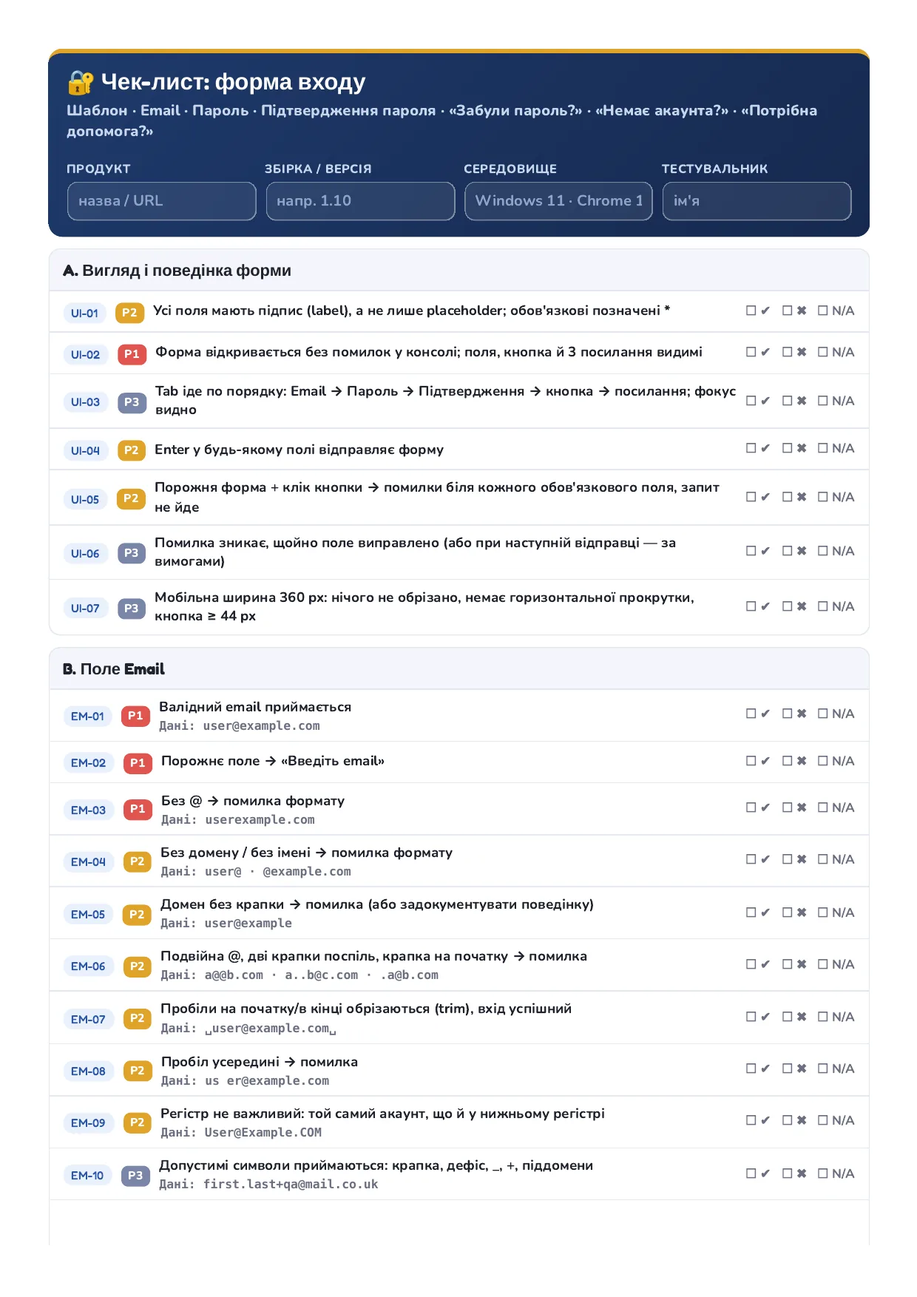
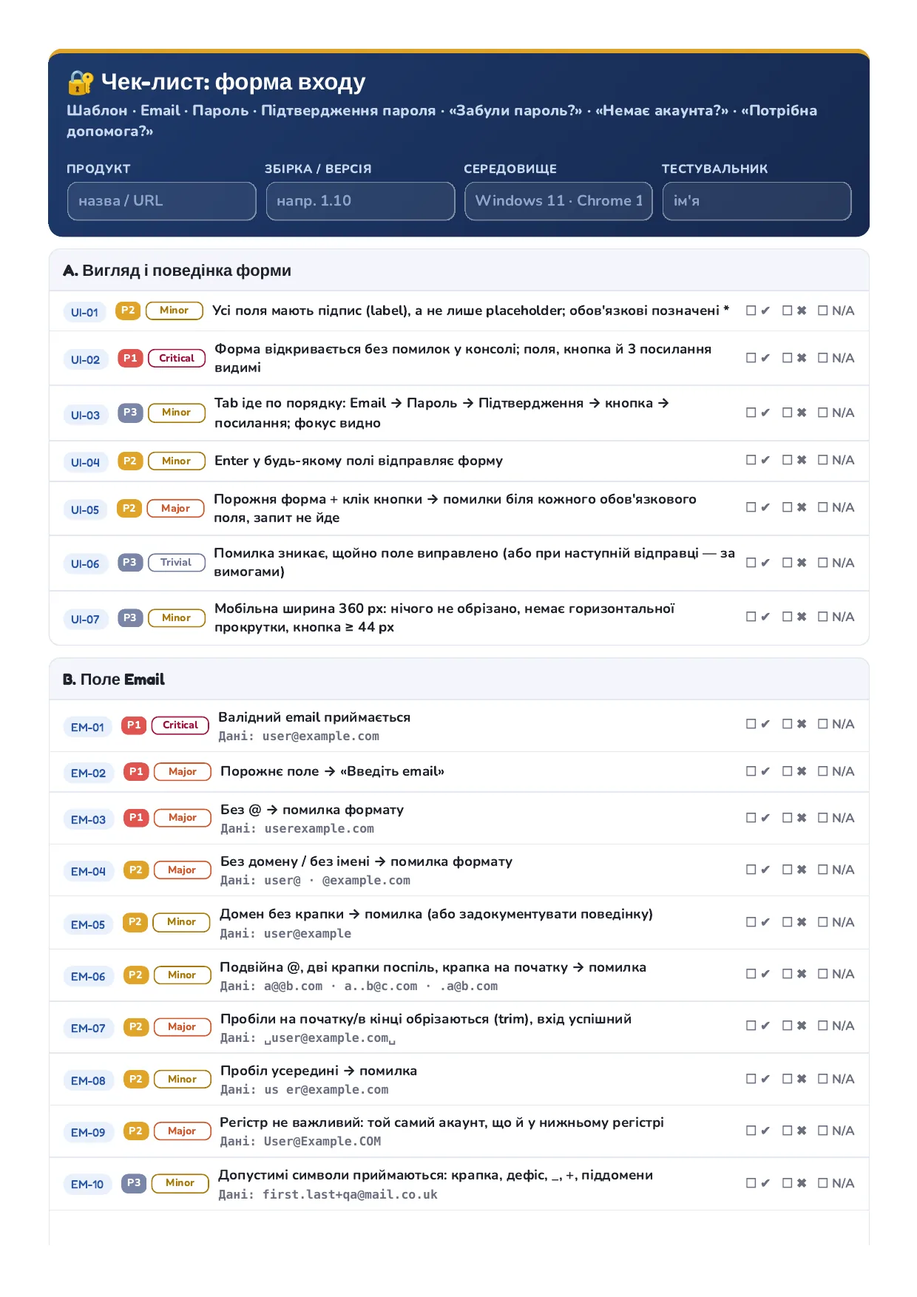
Checklist template: severity per check, collapse and expand all sections
Every check now shows its priority (P1-P3) and severity
(Critical/Major/Minor/Trivial). Both badges can be changed with a click;
changed values are saved, outlined, and used by the filters, summary,
report and print. Adds Collapse all / Expand all, keyboard-operable
section headers with aria-expanded, a failed-checks count in each section
header, a Critical-only filter, and a legend. The A4 page screenshots on
the site are regenerated.

Claude-Session: https://claude.ai/code/session_01QNh4zQBp7bNNuV439ysXSd

diff --git a/docs/templates/login-form-checklist.html b/docs/templates/login-form-checklist.html
@@ -11,7 +11,7 @@
 :root{
   --ink:#20232e;--soft:#6b6f80;--paper:#f4f6fb;--card:#fff;--line:#e4e8f0;
   --blue:#3b6fd4;--blue-d:#2b56a8;--good:#2fa96a;--good-bg:#e5f7ee;--bad:#e0554f;--bad-bg:#fceceb;
-  --na:#8a90a6;--na-bg:#eef0f5;--amber:#e0a42a;--p1:#e0554f;--p2:#e0a42a;--p3:#7a86a8;
+  --na:#8a90a6;--na-bg:#eef0f5;--s1:#a3123a;--s2:#d0562a;--s3:#a8780c;--s4:#6f7a99;--amber:#e0a42a;--p1:#e0554f;--p2:#e0a42a;--p3:#7a86a8;
 }
 *{box-sizing:border-box;-webkit-tap-highlight-color:transparent}
 html,body{margin:0;padding:0}
@@ -75,7 +75,18 @@ h1,h2,h3{font-family:'Fredoka',sans-serif;font-weight:700;margin:0}
 .row.na{background:var(--na-bg)}.row.na .rtext{color:var(--na);text-decoration:line-through}
 .rid{font-family:'Fredoka';font-size:12px;color:var(--blue-d);background:#eaf1fc;border-radius:8px;padding:3px 7px;flex:none;margin-top:2px}
 .prio{font-size:10px;font-weight:800;color:#fff;border-radius:6px;padding:2px 6px;flex:none;margin-top:3px}
+.legend{display:flex;flex-wrap:wrap;gap:6px 14px;justify-content:center;margin:6px 0}
+.legend span{display:inline-flex;align-items:center;gap:5px}
+.legend .prio,.legend .sev{margin:0;font-size:10px;border-radius:6px;padding:1px 6px}
 .prio.P1{background:var(--p1)}.prio.P2{background:var(--p2)}.prio.P3{background:var(--p3)}
+.tags{display:flex;flex-direction:column;align-items:stretch;gap:4px;flex:none;margin-top:2px;width:62px}
+.tags button{font:800 10px 'Nunito',sans-serif;border-radius:6px;padding:2px 5px;cursor:pointer;text-align:center;line-height:1.35}
+.tags .prio{margin:0;border:1px solid transparent}
+.sev{background:#fff;border:1.5px solid currentColor}
+.sev.Critical{color:var(--s1)}.sev.Major{color:var(--s2)}.sev.Minor{color:var(--s3)}.sev.Trivial{color:var(--s4)}
+.tags button.edited{box-shadow:0 0 0 2px #fff,0 0 0 3.5px var(--blue)}
+.tags button:focus-visible,.shead:focus-visible{outline:3px solid var(--blue);outline-offset:2px}
+.sfail{font-family:'Fredoka';font-size:12px;color:#fff;background:var(--bad);border-radius:20px;padding:2px 9px}
 .rbody{flex:1;min-width:0}
 .rtext{font-weight:700;font-size:14.5px;line-height:1.35}
 .rdata{margin-top:4px;font:600 12.5px ui-monospace,SFMono-Regular,Consolas,monospace;color:var(--soft);word-break:break-word}
@@ -118,7 +129,7 @@ h1,h2,h3{font-family:'Fredoka',sans-serif;font-weight:700;margin:0}
   html,body{background:#fff}
   body{padding:0;display:block;font-size:12px}
   .wrap{max-width:none}
-  .head,.row.pass,.row.fail,.row.na,.prio,.rid{-webkit-print-color-adjust:exact;print-color-adjust:exact}
+  .head,.row.pass,.row.fail,.row.na,.prio,.sev,.rid{-webkit-print-color-adjust:exact;print-color-adjust:exact}
   .head{box-shadow:none;border-radius:12px;padding:14px 16px}
   .head h1{font-size:20px}
   .meta input{border-color:rgba(255,255,255,.4)}
@@ -131,11 +142,13 @@ h1,h2,h3{font-family:'Fredoka',sans-serif;font-weight:700;margin:0}
   .rtext{font-size:12px;font-weight:700}
   .rdata{font-size:10.5px;margin-top:2px}
   .rid{font-size:10px}
+  .tags{flex-direction:row;width:auto;margin-top:0}.tags button{font-size:9px;padding:1px 4px}.tags .prio{min-width:22px}.tags .sev{min-width:50px}.tags button.edited{box-shadow:none}
+  .sfail{display:none}
   .row::after{content:"☐ ✔   ☐ ✖   ☐ N/A";white-space:pre;flex:none;font:700 11px 'Nunito',sans-serif;color:#6b6f80}
   .shots img{width:120px;height:auto}
   .shot button{display:none}
 }
-@media(max-width:520px){.rid{display:none}.head h1{font-size:20px}.row{flex-wrap:wrap}.rbody{flex-basis:calc(100% - 40px)}.acts{width:100%;justify-content:flex-end}.mark{width:40px;height:40px}}
+@media(max-width:520px){.rid{display:none}.head h1{font-size:20px}.row{flex-wrap:wrap}.rbody{flex-basis:calc(100% - 40px)}.acts{width:100%;justify-content:flex-end}.mark{width:40px;height:40px}.tags{flex-direction:row;width:auto;flex-basis:100%}.tags button{min-width:58px}}
 </style>
 </head>
 <body>
@@ -168,11 +181,13 @@ h1,h2,h3{font-family:'Fredoka',sans-serif;font-weight:700;margin:0}
       <button data-f="fail" onclick="setFilter('fail')">Впали</button>
       <button data-f="pass" onclick="setFilter('pass')">Пройдені</button>
       <button data-f="P1" onclick="setFilter('P1')">Лише P1</button>
+      <button data-f="Critical" onclick="setFilter('Critical')">Лише Critical</button>
     </div>
     <div class="spacer"></div>
     <button class="tbtn" onclick="copySummary()">📋 Підсумок</button>
     <button class="tbtn" onclick="exportReport()">⬇ Звіт</button>
-    <button class="tbtn" onclick="expandAll(true)">▾ Розгорнути</button>
+    <button class="tbtn" onclick="expandAll(true)" title="Розгорнути всі розділи">▾ Розгорнути все</button>
+    <button class="tbtn" onclick="expandAll(false)" title="Згорнути всі розділи">▸ Згорнути все</button>
     <button class="tbtn danger" onclick="resetAll()">↺ Скинути</button>
   </div>
 
@@ -181,7 +196,17 @@ h1,h2,h3{font-family:'Fredoka',sans-serif;font-weight:700;margin:0}
   <div class="foot">
     ✔ — пройдено · ✖ — впало · N/A — не стосується продукту · ✎ — нотатка / номер дефекту.<br>
     📷 — додати скрін: вибрати файл, перетягнути на рядок або клікнути рядок і натиснути Ctrl+V. «⬇ Звіт» — HTML-звіт з дефектами і скрінами.<br>
-    P1 — блокер · P2 — важливо · P3 — крайній випадок. Прогрес зберігається на цьому пристрої (localStorage).<br>
+    <div class="legend">
+      <b>Пріоритет</b> (як терміново перевірити / виправити):
+      <span><b class="prio P1">P1</b> перевіряти першим</span><span><b class="prio P2">P2</b> важливо</span><span><b class="prio P3">P3</b> крайній випадок</span>
+    </div>
+    <div class="legend">
+      <b>Серйозність</b> (наскільки зламано, якщо перевірка впала):
+      <span><b class="sev Critical">Critical</b> вхід неможливий / безпека</span><span><b class="sev Major">Major</b> основна функція працює неправильно</span>
+      <span><b class="sev Minor">Minor</b> є обхідний шлях</span><span><b class="sev Trivial">Trivial</b> косметика</span>
+    </div>
+    Клік по значку пріоритету чи серйозності змінює його під ваш продукт (змінені обведені синім). Клік по заголовку розділу (або Enter) згортає / розгортає його.<br>
+    Прогрес зберігається на цьому пристрої (localStorage).<br>
     Як адаптувати шаблон: змініть масив <code>DATA</code> у кінці файлу (мінімальна довжина пароля, тексти помилок, адреси сторінок).
   </div>
 </div>
@@ -190,119 +215,131 @@ h1,h2,h3{font-family:'Fredoka',sans-serif;font-weight:700;margin:0}
 <input type="file" id="shotInput" accept="image/*" multiple hidden>
 
 <script>
-/* ── ДАНІ: перевірки (t — що перевірити й очікуваний результат, d — тестові дані) ──
+/* ── ДАНІ: перевірки (p — пріоритет, s — серйозність, t — що перевірити й очікуваний результат, d — тестові дані) ──
    Значення в [дужках] — підставте з вимог свого продукту. */
 const DATA=[
  {id:"A",title:"Вигляд і поведінка форми",items:[
-   {id:"UI-01",p:"P2",t:"Усі поля мають підпис (label), а не лише placeholder; обов'язкові позначені *"},
-   {id:"UI-02",p:"P1",t:"Форма відкривається без помилок у консолі; поля, кнопка й 3 посилання видимі"},
-   {id:"UI-03",p:"P3",t:"Tab іде по порядку: Email → Пароль → Підтвердження → кнопка → посилання; фокус видно"},
-   {id:"UI-04",p:"P2",t:"Enter у будь-якому полі відправляє форму"},
-   {id:"UI-05",p:"P2",t:"Порожня форма + клік кнопки → помилки біля кожного обов'язкового поля, запит не йде"},
-   {id:"UI-06",p:"P3",t:"Помилка зникає, щойно поле виправлено (або при наступній відправці — за вимогами)"},
-   {id:"UI-07",p:"P3",t:"Мобільна ширина 360 px: нічого не обрізано, немає горизонтальної прокрутки, кнопка ≥ 44 px"},
+   {id:"UI-01",p:"P2",s:"Minor",t:"Усі поля мають підпис (label), а не лише placeholder; обов'язкові позначені *"},
+   {id:"UI-02",p:"P1",s:"Critical",t:"Форма відкривається без помилок у консолі; поля, кнопка й 3 посилання видимі"},
+   {id:"UI-03",p:"P3",s:"Minor",t:"Tab іде по порядку: Email → Пароль → Підтвердження → кнопка → посилання; фокус видно"},
+   {id:"UI-04",p:"P2",s:"Minor",t:"Enter у будь-якому полі відправляє форму"},
+   {id:"UI-05",p:"P2",s:"Major",t:"Порожня форма + клік кнопки → помилки біля кожного обов'язкового поля, запит не йде"},
+   {id:"UI-06",p:"P3",s:"Trivial",t:"Помилка зникає, щойно поле виправлено (або при наступній відправці — за вимогами)"},
+   {id:"UI-07",p:"P3",s:"Minor",t:"Мобільна ширина 360 px: нічого не обрізано, немає горизонтальної прокрутки, кнопка ≥ 44 px"},
  ]},
  {id:"B",title:"Поле Email",items:[
-   {id:"EM-01",p:"P1",t:"Валідний email приймається",d:"user@example.com"},
-   {id:"EM-02",p:"P1",t:"Порожнє поле → «Введіть email»"},
-   {id:"EM-03",p:"P1",t:"Без @ → помилка формату",d:"userexample.com"},
-   {id:"EM-04",p:"P2",t:"Без домену / без імені → помилка формату",d:"user@ · @example.com"},
-   {id:"EM-05",p:"P2",t:"Домен без крапки → помилка (або задокументувати поведінку)",d:"user@example"},
-   {id:"EM-06",p:"P2",t:"Подвійна @, дві крапки поспіль, крапка на початку → помилка",d:"a@@b.com · a..b@c.com · .a@b.com"},
-   {id:"EM-07",p:"P2",t:"Пробіли на початку/в кінці обрізаються (trim), вхід успішний",d:"␣user@example.com␣"},
-   {id:"EM-08",p:"P2",t:"Пробіл усередині → помилка",d:"us er@example.com"},
-   {id:"EM-09",p:"P2",t:"Регістр не важливий: той самий акаунт, що й у нижньому регістрі",d:"User@Example.COM"},
-   {id:"EM-10",p:"P3",t:"Допустимі символи приймаються: крапка, дефіс, _, +, піддомени",d:"first.last+qa@mail.co.uk"},
-   {id:"EM-11",p:"P3",t:"Кирилиця / CJK / емодзі → помилка або коректна обробка (за вимогами)",d:"тест@пошта.укр · 用户@例子.中国"},
-   {id:"EM-12",p:"P3",t:"Довжина: 254 символи приймається, 255+ відхиляється без падіння"},
-   {id:"EM-13",p:"P3",t:"Вставка (Ctrl+V) і автозаповнення працюють; type=\"email\", autocomplete=\"email\""},
+   {id:"EM-01",p:"P1",s:"Critical",t:"Валідний email приймається",d:"user@example.com"},
+   {id:"EM-02",p:"P1",s:"Major",t:"Порожнє поле → «Введіть email»"},
+   {id:"EM-03",p:"P1",s:"Major",t:"Без @ → помилка формату",d:"userexample.com"},
+   {id:"EM-04",p:"P2",s:"Major",t:"Без домену / без імені → помилка формату",d:"user@ · @example.com"},
+   {id:"EM-05",p:"P2",s:"Minor",t:"Домен без крапки → помилка (або задокументувати поведінку)",d:"user@example"},
+   {id:"EM-06",p:"P2",s:"Minor",t:"Подвійна @, дві крапки поспіль, крапка на початку → помилка",d:"a@@b.com · a..b@c.com · .a@b.com"},
+   {id:"EM-07",p:"P2",s:"Major",t:"Пробіли на початку/в кінці обрізаються (trim), вхід успішний",d:"␣user@example.com␣"},
+   {id:"EM-08",p:"P2",s:"Minor",t:"Пробіл усередині → помилка",d:"us er@example.com"},
+   {id:"EM-09",p:"P2",s:"Major",t:"Регістр не важливий: той самий акаунт, що й у нижньому регістрі",d:"User@Example.COM"},
+   {id:"EM-10",p:"P3",s:"Minor",t:"Допустимі символи приймаються: крапка, дефіс, _, +, піддомени",d:"first.last+qa@mail.co.uk"},
+   {id:"EM-11",p:"P3",s:"Minor",t:"Кирилиця / CJK / емодзі → помилка або коректна обробка (за вимогами)",d:"тест@пошта.укр · 用户@例子.中国"},
+   {id:"EM-12",p:"P3",s:"Minor",t:"Довжина: 254 символи приймається, 255+ відхиляється без падіння"},
+   {id:"EM-13",p:"P3",s:"Minor",t:"Вставка (Ctrl+V) і автозаповнення працюють; type=\"email\", autocomplete=\"email\""},
  ]},
  {id:"C",title:"Поле Пароль",items:[
-   {id:"PW-01",p:"P1",t:"Валідний пароль приймається",d:"[мін. довжина], напр. Qa12345!"},
-   {id:"PW-02",p:"P1",t:"Порожнє поле → «Введіть пароль»"},
-   {id:"PW-03",p:"P1",t:"Межі довжини: [мін]−1 → помилка; [мін] і [макс] → ок; [макс]+1 → помилка"},
-   {id:"PW-04",p:"P2",t:"Вимоги до пароля показані до введення і перевіряються (цифра, літера, спецсимвол — за вимогами)"},
-   {id:"PW-05",p:"P1",t:"Символи маскуються (•••), type=\"password\""},
-   {id:"PW-06",p:"P2",t:"Кнопка «показати/сховати» (👁) працює і не змінює значення"},
-   {id:"PW-07",p:"P2",t:"Регістр має значення: інший регістр → невдалий вхід",d:"Qa12345! ≠ qa12345!"},
-   {id:"PW-08",p:"P2",t:"Пробіли на початку/в кінці/всередині — поведінка за вимогами (не обрізати мовчки)"},
-   {id:"PW-09",p:"P2",t:"Слабкі паролі відхиляються (якщо є політика)",d:"123456 · password · пароль = email"},
-   {id:"PW-10",p:"P3",t:"Кирилиця, спецсимволи, емодзі → поведінка за вимогами, без падіння",d:"Пароль1! · p@ss😀word"},
-   {id:"PW-11",p:"P2",t:"Пароль не потрапляє в URL, консоль, тексти помилок"},
-   {id:"PW-12",p:"P3",t:"Попередження про Caps Lock (якщо передбачено)"},
+   {id:"PW-01",p:"P1",s:"Critical",t:"Валідний пароль приймається",d:"[мін. довжина], напр. Qa12345!"},
+   {id:"PW-02",p:"P1",s:"Major",t:"Порожнє поле → «Введіть пароль»"},
+   {id:"PW-03",p:"P1",s:"Major",t:"Межі довжини: [мін]−1 → помилка; [мін] і [макс] → ок; [макс]+1 → помилка"},
+   {id:"PW-04",p:"P2",s:"Minor",t:"Вимоги до пароля показані до введення і перевіряються (цифра, літера, спецсимвол — за вимогами)"},
+   {id:"PW-05",p:"P1",s:"Critical",t:"Символи маскуються (•••), type=\"password\""},
+   {id:"PW-06",p:"P2",s:"Minor",t:"Кнопка «показати/сховати» (👁) працює і не змінює значення"},
+   {id:"PW-07",p:"P2",s:"Critical",t:"Регістр має значення: інший регістр → невдалий вхід",d:"Qa12345! ≠ qa12345!"},
+   {id:"PW-08",p:"P2",s:"Major",t:"Пробіли на початку/в кінці/всередині — поведінка за вимогами (не обрізати мовчки)"},
+   {id:"PW-09",p:"P2",s:"Major",t:"Слабкі паролі відхиляються (якщо є політика)",d:"123456 · password · пароль = email"},
+   {id:"PW-10",p:"P3",s:"Minor",t:"Кирилиця, спецсимволи, емодзі → поведінка за вимогами, без падіння",d:"Пароль1! · p@ss😀word"},
+   {id:"PW-11",p:"P2",s:"Critical",t:"Пароль не потрапляє в URL, консоль, тексти помилок"},
+   {id:"PW-12",p:"P3",s:"Trivial",t:"Попередження про Caps Lock (якщо передбачено)"},
  ]},
  {id:"D",title:"Поле Підтвердження пароля",items:[
-   {id:"CF-01",p:"P1",t:"Збігається з паролем → форма відправляється"},
-   {id:"CF-02",p:"P1",t:"Не збігається → «Паролі не збігаються», акаунт не створюється / вхід не виконується"},
-   {id:"CF-03",p:"P1",t:"Порожнє при заповненому паролі → помилка"},
-   {id:"CF-04",p:"P2",t:"Відрізняється лише регістром → помилка",d:"Qa12345! / qa12345!"},
-   {id:"CF-05",p:"P2",t:"Відрізняється пробілом у кінці → помилка (обидва поля обробляються однаково)"},
-   {id:"CF-06",p:"P2",t:"Змінити пароль після заповнення підтвердження → перевірка збігу оновлюється"},
-   {id:"CF-07",p:"P3",t:"Маскування і кнопка «показати» працюють так само, як у полі Пароль"},
-   {id:"CF-08",p:"P3",t:"Вставка в поле підтвердження — поведінка за вимогами (дозволена / заборонена)"},
+   {id:"CF-01",p:"P1",s:"Critical",t:"Збігається з паролем → форма відправляється"},
+   {id:"CF-02",p:"P1",s:"Critical",t:"Не збігається → «Паролі не збігаються», акаунт не створюється / вхід не виконується"},
+   {id:"CF-03",p:"P1",s:"Major",t:"Порожнє при заповненому паролі → помилка"},
+   {id:"CF-04",p:"P2",s:"Major",t:"Відрізняється лише регістром → помилка",d:"Qa12345! / qa12345!"},
+   {id:"CF-05",p:"P2",s:"Minor",t:"Відрізняється пробілом у кінці → помилка (обидва поля обробляються однаково)"},
+   {id:"CF-06",p:"P2",s:"Major",t:"Змінити пароль після заповнення підтвердження → перевірка збігу оновлюється"},
+   {id:"CF-07",p:"P3",s:"Trivial",t:"Маскування і кнопка «показати» працюють так само, як у полі Пароль"},
+   {id:"CF-08",p:"P3",s:"Trivial",t:"Вставка в поле підтвердження — поведінка за вимогами (дозволена / заборонена)"},
  ]},
  {id:"E",title:"Відправка форми",items:[
-   {id:"SUB-01",p:"P1",t:"Валідні дані → успіх і перехід на [сторінку після входу]"},
-   {id:"SUB-02",p:"P1",t:"Невірний пароль і неіснуючий email → однакове загальне повідомлення (не розкривати, чи є акаунт)"},
-   {id:"SUB-03",p:"P1",t:"Вже зареєстрований email (якщо форма створює акаунт) → зрозуміла помилка"},
-   {id:"SUB-04",p:"P2",t:"Подвійний клік → один запит; кнопка неактивна, поки йде запит"},
-   {id:"SUB-05",p:"P2",t:"Немає мережі / сервер 500 → зрозуміле повідомлення, кнопка знову активна"},
-   {id:"SUB-06",p:"P2",t:"Після помилки email лишається у полі, паролі очищаються"},
-   {id:"SUB-07",p:"P2",t:"DevTools → Network: запит POST по HTTPS, пароля немає в URL"},
-   {id:"SUB-08",p:"P2",t:"Багато невдалих спроб → обмеження / капча / блокування (за вимогами)"},
-   {id:"SUB-09",p:"P3",t:"«Назад» у браузері після входу не повертає форму з даними"},
+   {id:"SUB-01",p:"P1",s:"Critical",t:"Валідні дані → успіх і перехід на [сторінку після входу]"},
+   {id:"SUB-02",p:"P1",s:"Major",t:"Невірний пароль і неіснуючий email → однакове загальне повідомлення (не розкривати, чи є акаунт)"},
+   {id:"SUB-03",p:"P1",s:"Major",t:"Вже зареєстрований email (якщо форма створює акаунт) → зрозуміла помилка"},
+   {id:"SUB-04",p:"P2",s:"Major",t:"Подвійний клік → один запит; кнопка неактивна, поки йде запит"},
+   {id:"SUB-05",p:"P2",s:"Major",t:"Немає мережі / сервер 500 → зрозуміле повідомлення, кнопка знову активна"},
+   {id:"SUB-06",p:"P2",s:"Minor",t:"Після помилки email лишається у полі, паролі очищаються"},
+   {id:"SUB-07",p:"P2",s:"Critical",t:"DevTools → Network: запит POST по HTTPS, пароля немає в URL"},
+   {id:"SUB-08",p:"P2",s:"Major",t:"Багато невдалих спроб → обмеження / капча / блокування (за вимогами)"},
+   {id:"SUB-09",p:"P3",s:"Minor",t:"«Назад» у браузері після входу не повертає форму з даними"},
  ]},
  {id:"F",title:"Посилання «Забули пароль?»",items:[
-   {id:"FP-01",p:"P1",t:"Посилання видиме, клікабельне і веде на сторінку відновлення"},
-   {id:"FP-02",p:"P1",t:"Існуючий email → лист зі скиданням пароля приходить"},
-   {id:"FP-03",p:"P2",t:"Неіснуючий email → те саме нейтральне повідомлення (не розкривати)"},
-   {id:"FP-04",p:"P2",t:"Посилання з листа одноразове і має термін дії"},
-   {id:"FP-05",p:"P3",t:"Email із форми входу підставляється на сторінці відновлення (якщо передбачено)"},
-   {id:"FP-06",p:"P3",t:"Зі сторінки відновлення можна повернутися до входу"},
+   {id:"FP-01",p:"P1",s:"Major",t:"Посилання видиме, клікабельне і веде на сторінку відновлення"},
+   {id:"FP-02",p:"P1",s:"Critical",t:"Існуючий email → лист зі скиданням пароля приходить"},
+   {id:"FP-03",p:"P2",s:"Major",t:"Неіснуючий email → те саме нейтральне повідомлення (не розкривати)"},
+   {id:"FP-04",p:"P2",s:"Major",t:"Посилання з листа одноразове і має термін дії"},
+   {id:"FP-05",p:"P3",s:"Trivial",t:"Email із форми входу підставляється на сторінці відновлення (якщо передбачено)"},
+   {id:"FP-06",p:"P3",s:"Minor",t:"Зі сторінки відновлення можна повернутися до входу"},
  ]},
  {id:"G",title:"Посилання «Немає акаунта?»",items:[
-   {id:"NA-01",p:"P1",t:"Веде на сторінку реєстрації"},
-   {id:"NA-02",p:"P3",t:"Текст зрозумілий («Зареєструватися»), виглядає як посилання"},
-   {id:"NA-03",p:"P3",t:"Зі сторінки реєстрації є шлях назад до входу"},
+   {id:"NA-01",p:"P1",s:"Major",t:"Веде на сторінку реєстрації"},
+   {id:"NA-02",p:"P3",s:"Trivial",t:"Текст зрозумілий («Зареєструватися»), виглядає як посилання"},
+   {id:"NA-03",p:"P3",s:"Minor",t:"Зі сторінки реєстрації є шлях назад до входу"},
  ]},
  {id:"H",title:"Посилання «Потрібна допомога?»",items:[
-   {id:"HLP-01",p:"P2",t:"Веде на підтримку / FAQ / контакти або відкриває чат"},
-   {id:"HLP-02",p:"P3",t:"Зовнішня сторінка відкривається в новій вкладці (rel=\"noopener\")"},
-   {id:"HLP-03",p:"P3",t:"mailto / телефон / месенджер коректні (якщо використовуються)"},
-   {id:"HLP-04",p:"P3",t:"Перехід у тій самій вкладці не губить введені дані без попередження"},
+   {id:"HLP-01",p:"P2",s:"Major",t:"Веде на підтримку / FAQ / контакти або відкриває чат"},
+   {id:"HLP-02",p:"P3",s:"Trivial",t:"Зовнішня сторінка відкривається в новій вкладці (rel=\"noopener\")"},
+   {id:"HLP-03",p:"P3",s:"Minor",t:"mailto / телефон / месенджер коректні (якщо використовуються)"},
+   {id:"HLP-04",p:"P3",s:"Minor",t:"Перехід у тій самій вкладці не губить введені дані без попередження"},
  ]},
  {id:"I",title:"Безпека, доступність, браузери",items:[
-   {id:"SEC-01",p:"P2",t:"HTML/скрипт у полях не виконується",d:"<script>alert(1)<\/script>"},
-   {id:"SEC-02",p:"P2",t:"SQL-ін'єкція → звичайна помилка, без помилок БД",d:"' OR '1'='1' --"},
-   {id:"SEC-03",p:"P2",t:"Помилки не показують технічних деталей (стек, SQL, ім'я користувача БД)"},
-   {id:"A11Y-01",p:"P3",t:"Скрінрідер читає підписи і помилки (aria-describedby / aria-live)"},
-   {id:"A11Y-02",p:"P3",t:"Контраст тексту, помилок і посилань достатній"},
-   {id:"CB-01",p:"P3",t:"Chrome, Firefox, Safari, Edge; Android і iOS"},
-   {id:"CB-02",p:"P3",t:"Менеджер паролів пропонує зберегти / заповнити (autocomplete=\"current-password\" / \"new-password\")"},
+   {id:"SEC-01",p:"P2",s:"Critical",t:"HTML/скрипт у полях не виконується",d:"<script>alert(1)<\/script>"},
+   {id:"SEC-02",p:"P2",s:"Critical",t:"SQL-ін'єкція → звичайна помилка, без помилок БД",d:"' OR '1'='1' --"},
+   {id:"SEC-03",p:"P2",s:"Major",t:"Помилки не показують технічних деталей (стек, SQL, ім'я користувача БД)"},
+   {id:"A11Y-01",p:"P3",s:"Minor",t:"Скрінрідер читає підписи і помилки (aria-describedby / aria-live)"},
+   {id:"A11Y-02",p:"P3",s:"Minor",t:"Контраст тексту, помилок і посилань достатній"},
+   {id:"CB-01",p:"P3",s:"Major",t:"Chrome, Firefox, Safari, Edge; Android і iOS"},
+   {id:"CB-02",p:"P3",s:"Minor",t:"Менеджер паролів пропонує зберегти / заповнити (autocomplete=\"current-password\" / \"new-password\")"},
  ]},
 ];
 
 const KEY='login-form-checklist-v1';
 const LABEL={pass:'✔',fail:'✖',na:'N/A'};
-let store={st:{},notes:{},open:{},meta:{}}; // st: id->'pass'|'fail'|'na'
+let store={st:{},notes:{},open:{},meta:{},prio:{},sev:{}}; // st: id->'pass'|'fail'|'na'; prio/sev: змінені значення
 let filter='all';
 
-function load(){ try{const s=JSON.parse(localStorage.getItem(KEY)); if(s){store.st=s.st||{};store.notes=s.notes||{};store.open=s.open||{};store.meta=s.meta||{};}}catch(e){} }
+function load(){ try{const s=JSON.parse(localStorage.getItem(KEY)); if(s){store.st=s.st||{};store.notes=s.notes||{};store.open=s.open||{};store.meta=s.meta||{};store.prio=s.prio||{};store.sev=s.sev||{};}}catch(e){} }
 function save(){ try{localStorage.setItem(KEY,JSON.stringify(store));}catch(e){} }
 load();
 
 const ALL=DATA.reduce((n,s)=>n+s.items.length,0);
+const PRIOS=['P1','P2','P3'], SEVS=['Critical','Major','Minor','Trivial'];
+const ITEM={}; DATA.forEach(s=>s.items.forEach(it=>ITEM[it.id]=it));
+const prioOf=it=>store.prio[it.id]||it.p;
+const sevOf=it=>store.sev[it.id]||it.s;
+const tagOf=it=>prioOf(it)+' · '+sevOf(it);
+function cycle(kind,id){
+  const it=ITEM[id], list=kind==='prio'?PRIOS:SEVS, def=kind==='prio'?it.p:it.s;
+  const cur=store[kind][id]||def, next=list[(list.indexOf(cur)+1)%list.length];
+  if(next===def) delete store[kind][id]; else store[kind][id]=next;
+  save(); render();
+}
 function counts(){
   let p=0,f=0,na=0; for(const k in store.st){ const v=store.st[k]; if(v==='pass')p++; else if(v==='fail')f++; else if(v==='na')na++; }
   return {p,f,na,todo:ALL-p-f-na};
 }
-function secCounts(sec){ let p=0,d=0; sec.items.forEach(it=>{const s=store.st[it.id]; if(s)d++; if(s==='pass')p++;}); return {p,d,n:sec.items.length}; }
+function secCounts(sec){ let p=0,d=0,f=0; sec.items.forEach(it=>{const s=store.st[it.id]; if(s)d++; if(s==='pass')p++; if(s==='fail')f++;}); return {p,d,f,n:sec.items.length}; }
 function visible(it){
   const st=store.st[it.id]||'';
   if(filter==='todo') return st==='';
   if(filter==='fail') return st==='fail';
   if(filter==='pass') return st==='pass';
-  if(filter==='P1') return it.p==='P1';
+  if(filter==='P1') return prioOf(it)==='P1';
+  if(filter==='Critical') return sevOf(it)==='Critical';
   return true;
 }
 
@@ -313,12 +350,16 @@ function render(){
     const closed = store.open[sec.id]===false;
     const el=document.createElement('div'); el.className='section'+(closed?' closed':'');
     el.innerHTML=
-      '<div class="shead" onclick="toggleSec(\''+sec.id+'\')">'+
+      '<div class="shead" role="button" tabindex="0" aria-expanded="'+(!closed)+'" title="'+(closed?'Розгорнути':'Згорнути')+' розділ">'+
         '<span class="caret">▾</span><h3></h3>'+
+        (sc.f?'<span class="sfail" title="Впало в розділі">✖ '+sc.f+'</span>':'')+
         '<span class="schip">'+sc.d+'/'+sc.n+'</span>'+
         '<div class="smini"><span style="width:'+Math.round(sc.p/sc.n*100)+'%"></span></div>'+
       '</div><div class="rows"></div>';
     el.querySelector('h3').textContent=sec.id+'. '+sec.title;
+    const sh=el.querySelector('.shead');
+    sh.addEventListener('click',()=>toggleSec(sec.id));
+    sh.addEventListener('keydown',e=>{ if(e.key==='Enter'||e.key===' '){ e.preventDefault(); toggleSec(sec.id); } });
     const rows=el.querySelector('.rows');
     sec.items.filter(visible).forEach(it=>{
       const st=store.st[it.id]||'';
@@ -327,7 +368,10 @@ function render(){
       row.className='row'+(st?' '+st:'')+(hasNote?' noteon':'');
       row.innerHTML=
         '<span class="rid">'+it.id+'</span>'+
-        '<span class="prio '+it.p+'">'+it.p+'</span>'+
+        '<div class="tags">'+
+          '<button class="prio '+prioOf(it)+(store.prio[it.id]?' edited':'')+'" title="Пріоритет'+(store.prio[it.id]?' (змінено, за замовчуванням '+it.p+')':'')+'. Клік — змінити" onclick="cycle(\'prio\',\''+it.id+'\')">'+prioOf(it)+'</button>'+
+          '<button class="sev '+sevOf(it)+(store.sev[it.id]?' edited':'')+'" title="Серйозність'+(store.sev[it.id]?' (змінено, за замовчуванням '+it.s+')':'')+'. Клік — змінити" onclick="cycle(\'sev\',\''+it.id+'\')">'+sevOf(it)+'</button>'+
+        '</div>'+
         '<div class="rbody"><div class="rtext"></div>'+(it.d?'<div class="rdata"></div>':'')+
           '<input class="note" placeholder="нотатка / номер дефекту…">'+
         '</div>'+
@@ -369,10 +413,13 @@ function updateSummary(){
 }
 function mark(id,val){ if(store.st[id]===val) delete store.st[id]; else store.st[id]=val; save(); render(); }
 function toggleNote(btn){ const row=btn.closest('.row'); row.classList.toggle('noteon'); const n=row.querySelector('.note'); if(row.classList.contains('noteon'))n.focus(); }
-function toggleSec(id){ store.open[id]=store.open[id]===false; save(); render(); }
+function toggleSec(id){
+  store.open[id]=store.open[id]===false; save(); render();
+  const i=DATA.findIndex(s=>s.id===id), h=document.querySelectorAll('.shead')[i]; if(h) h.focus();
+}
 function expandAll(open){ DATA.forEach(s=>store.open[s.id]=open); save(); render(); }
 function setFilter(f){ filter=f; document.querySelectorAll('.filters button').forEach(b=>b.classList.toggle('on',b.dataset.f===f)); render(); }
-function resetAll(){ if(!confirm('Скинути всі статуси, нотатки й скріни? (Дані прогону лишаться.)'))return; store.st={};store.notes={};store.open={}; save(); clearShots(); render(); toast('Скинуто'); }
+function resetAll(){ if(!confirm('Скинути всі статуси, нотатки й скріни? (Дані прогону, пріоритети й серйозність лишаться.)'))return; store.st={};store.notes={};store.open={}; save(); clearShots(); render(); toast('Скинуто'); }
 
 /* ── СКРІНИ: зберігаються в IndexedDB (localStorage замалий для картинок) ── */
 let db=null, shots=[], activeId=null; // shots: [{id, item, blob, name}]
@@ -451,7 +498,7 @@ async function exportReport(){
   for(const it of items){
     const st=STATUS[store.st[it.id]||''];
     let imgs=''; for(const s of shotsOf(it.id)) imgs+='<img src="'+await toDataURL(s.blob)+'" alt="'+esc(it.id)+'">';
-    body+='<section><h3><span class="id">'+esc(it.id)+'</span> <span class="p">'+it.p+'</span> '+esc(it.t)+'</h3>'+
+    body+='<section><h3><span class="id">'+esc(it.id)+'</span> <span class="p">'+prioOf(it)+'</span> <span class="s s-'+sevOf(it)+'">'+sevOf(it)+'</span> '+esc(it.t)+'</h3>'+
       '<p class="st" style="color:'+st[1]+'">'+st[0]+'</p>'+
       (it.d?'<p class="d">Дані: '+esc(it.d)+'</p>':'')+
       (store.notes[it.id]?'<p class="n">'+esc(store.notes[it.id])+'</p>':'')+
@@ -463,11 +510,11 @@ async function exportReport(){
     '<title>Звіт — Форма входу</title><style>body{font:15px/1.5 system-ui,sans-serif;color:#20232e;max-width:900px;margin:24px auto;padding:0 16px}'+
     'h1{margin:0 0 6px}.meta{color:#6b6f80}.sum{margin:14px 0 22px;padding:12px 14px;background:#f4f6fb;border-radius:10px;font-weight:700}'+
     'section{border:1px solid #e4e8f0;border-radius:12px;padding:14px 16px;margin-bottom:14px;break-inside:avoid}h3{margin:0;font-size:16px}'+
-    '.id{color:#2b56a8}.p{font-size:11px;background:#eef0f5;border-radius:6px;padding:1px 6px}.st{margin:6px 0 0;font-weight:800}'+
+    '.id{color:#2b56a8}.p,.s{font-size:11px;background:#eef0f5;border-radius:6px;padding:1px 6px}.s{background:#fff;border:1.5px solid}.s-Critical{color:#a3123a}.s-Major{color:#d0562a}.s-Minor{color:#a8780c}.s-Trivial{color:#6f7a99}.st{margin:6px 0 0;font-weight:800}'+
     '.d{margin:4px 0 0;font-family:ui-monospace,monospace;color:#6b6f80;font-size:13px}.n{margin:6px 0 0;padding:6px 10px;background:#fff8e6;border-radius:8px}'+
     '.imgs{display:flex;flex-direction:column;gap:10px;margin-top:10px}.imgs img{max-width:100%;border:1px solid #e4e8f0;border-radius:8px}</style></head><body>'+
     '<h1>Звіт: форма входу</h1><div class="meta">'+meta+'</div>'+
-    '<div class="sum">Пройдено '+c.p+' · Впало '+c.f+' · N/A '+c.na+' · Лишилось '+c.todo+' · Усього '+ALL+' ('+Math.round((ALL-c.todo)/ALL*100)+'% перевірено)</div>'+
+    '<div class="sum">'+(c.f?'Дефекти за серйозністю: '+SEVS.map(v=>v+' '+DATA.reduce((n,s)=>n+s.items.filter(it=>store.st[it.id]==='fail'&&sevOf(it)===v).length,0)).join(' · ')+'<br>':'')+'Пройдено '+c.p+' · Впало '+c.f+' · N/A '+c.na+' · Лишилось '+c.todo+' · Усього '+ALL+' ('+Math.round((ALL-c.todo)/ALL*100)+'% перевірено)</div>'+
     (body||'<p>Дефектів, нотаток і скрінів немає.</p>')+'</body></html>';
   const a=document.createElement('a');
   a.href=URL.createObjectURL(new Blob([html],{type:'text/html'}));
@@ -490,9 +537,10 @@ function copySummary(){
   if(m.env) out+='Середовище: '+m.env+'\n';
   if(m.tester) out+='Тестувальник: '+m.tester+'\n';
   out+='Дата: '+new Date().toLocaleString('uk-UA')+'\n';
+  if(c.f) out+='Дефекти за серйозністю: '+SEVS.map(v=>v+' '+DATA.reduce((n,s)=>n+s.items.filter(it=>store.st[it.id]==='fail'&&sevOf(it)===v).length,0)).join(' · ')+'\n';
   out+='Пройдено '+c.p+' · Впало '+c.f+' · N/A '+c.na+' · Лишилось '+c.todo+' · Усього '+ALL+' ('+Math.round((ALL-c.todo)/ALL*100)+'% перевірено)\n';
   const shotTag=id=>{ const n=shotsOf(id).length; return n?' | 📷 '+n:''; };
-  const fails=[]; DATA.forEach(s=>s.items.forEach(it=>{ if(store.st[it.id]==='fail') fails.push('  ✖ '+it.id+' ['+it.p+'] — '+it.t+(store.notes[it.id]?(' | '+store.notes[it.id]):'')+shotTag(it.id)); }));
+  const fails=[]; DATA.forEach(s=>s.items.forEach(it=>{ if(store.st[it.id]==='fail') fails.push('  ✖ '+it.id+' ['+tagOf(it)+'] — '+it.t+(store.notes[it.id]?(' | '+store.notes[it.id]):'')+shotTag(it.id)); }));
   if(fails.length) out+='\nДЕФЕКТИ ('+fails.length+'):\n'+fails.join('\n')+'\n';
   const notes=[]; DATA.forEach(s=>s.items.forEach(it=>{ if(store.notes[it.id]&&store.st[it.id]!=='fail') notes.push('  • '+it.id+(store.st[it.id]?' ('+LABEL[store.st[it.id]]+')':'')+': '+store.notes[it.id]); }));
   if(notes.length) out+='\nНОТАТКИ:\n'+notes.join('\n')+'\n';
